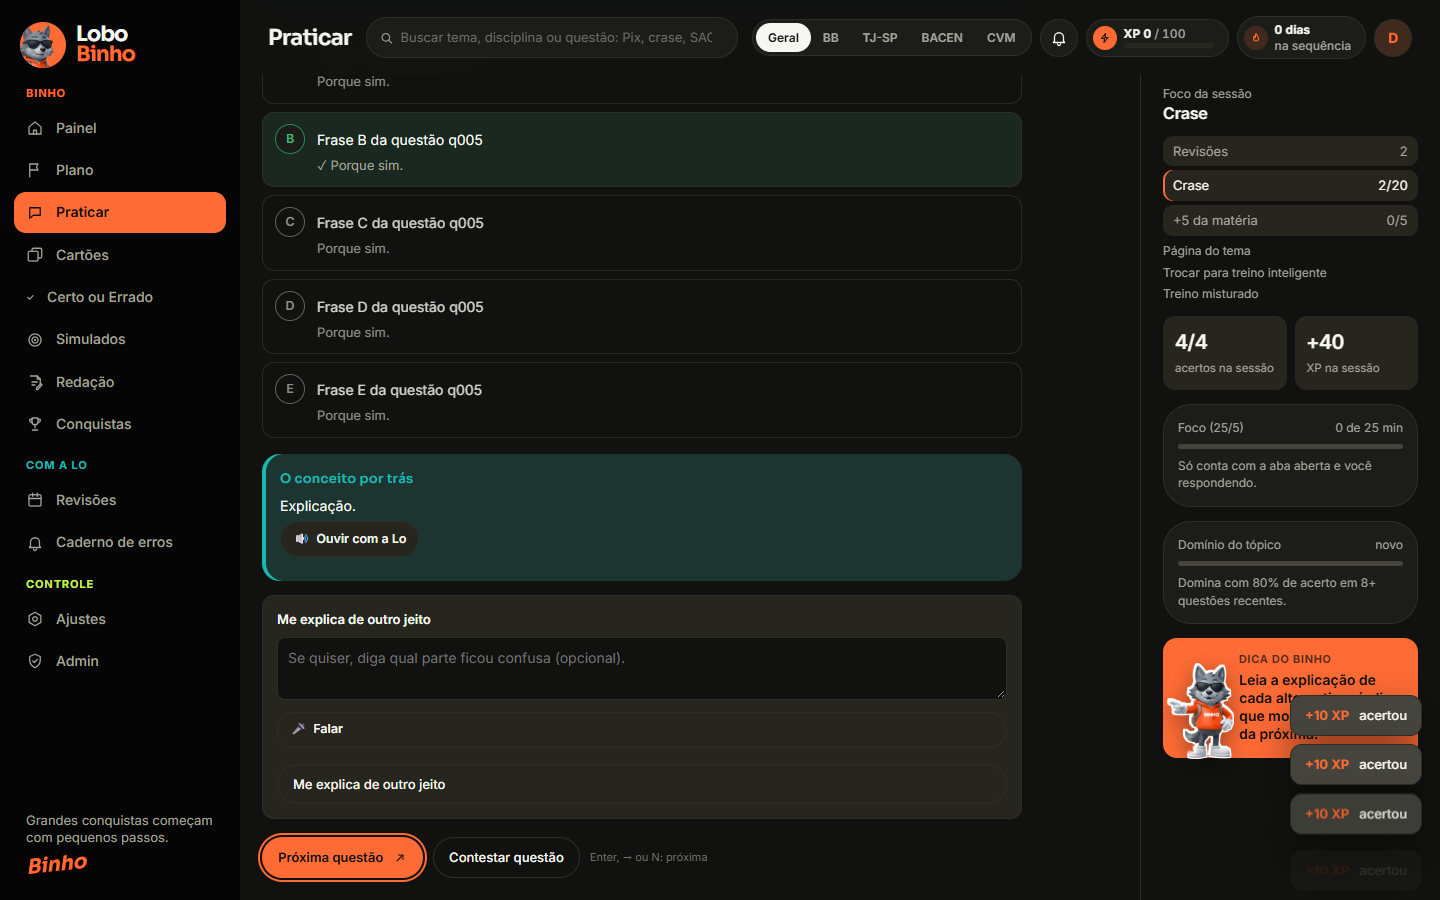
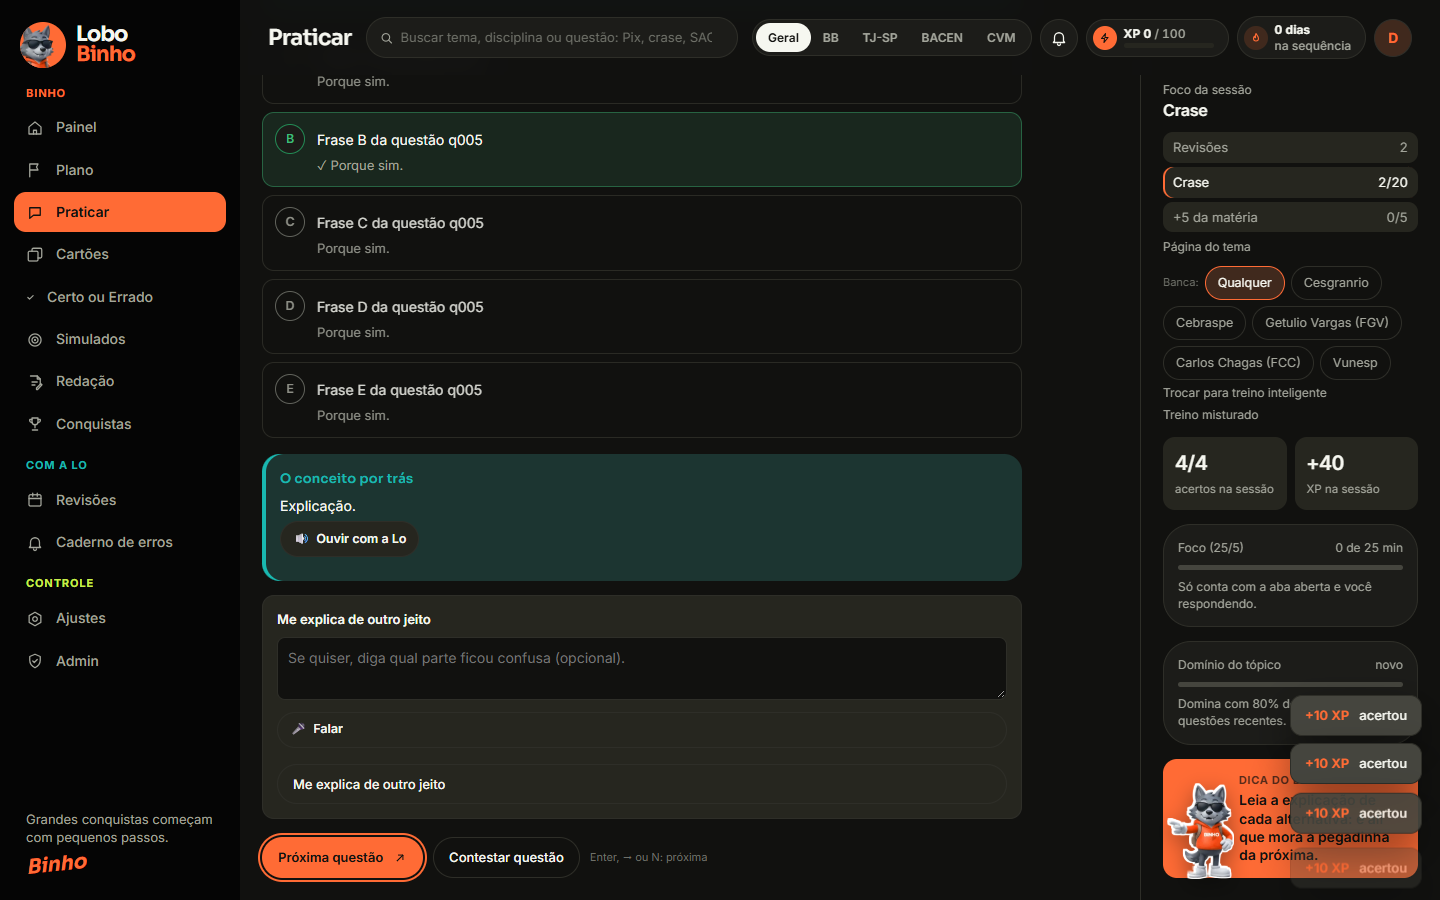
feat(trilha-única): lente nos simulados e questões do tema de qualquer banca com filtro
Na lente, o histórico de simulados é só do concurso (antigos sem concurso = BB). Questões do
tema: qualquer banca por padrão, com filtro de banca na sessão do tema e selo "banca ·
formato" no cabeçalho da questão (banca gravada ou estilo; antigas = Cesgranrio). Diário com
a trilha única, o que falta no banco (arvore --confirmar) e o estado da cadeia F8/F10.

diff --git a/src/estudo.ts b/src/estudo.ts
@@ -3,7 +3,7 @@
 // As regras (XP, SM-2, prioridade, painel) vêm de shared/motor.ts — as mesmas do modo demo.
 // ============================================================
 import { Types } from "mongoose";
-import { Attempt, Question, RatingAluno, ReviewState, Topic, Report, Source, Redacao, ItemCE, RespostaCE } from "./models.js";
+import { Attempt, Question, RatingAluno, ReviewState, Topic, Report, Source, Redacao, ItemCE, RespostaCE, Simulado } from "./models.js";
 import { corrigirCE, recomendarBranco, type GabaritoCE } from "../shared/certoErrado.js";
 import { MISTURA_DIAGNOSTICO, PREFIXO_DIAGNOSTICO, ratingDoDiagnostico } from "../shared/diagnostico.js";
 import { atualizarRatings, dificuldadeExibida, pesoPorProximidade, ratingInicialQuestao, ALVO_ACIMA, RATING_ALUNO_INICIAL } from "../shared/rating.js";
@@ -98,6 +98,13 @@ async function questoesDoConcurso(mapa?: Awaited<ReturnType<typeof mapaTopicos>>
   return (await Question.distinct("_id", { topicId: { $in: [...m.values()].map((t) => t._id) } })) as Types.ObjectId[];
 }
 
+async function simuladosDaLente<T extends { id: string }>(userId: Types.ObjectId, lente: IdConcurso, lista: T[]): Promise<T[]> {
+  const docs = await Simulado.find({ userId }).select("_id concurso").lean();
+  const daLente = new Set(docs.filter((d) => (d.concurso ?? "bb") === lente).map((d) => String(d._id)));
+  const conhecidos = new Set(docs.map((d) => String(d._id)));
+  return lista.filter((s) => daLente.has(s.id) || (!conhecidos.has(s.id) && lente === "bb"));
+}
+
 // ------------------------------------------------------------
 // Certo/Errado (F10): itens aprovados do concurso ativo; recomendação de "em branco" e nota pela banca dele
 // ------------------------------------------------------------
@@ -169,6 +176,8 @@ type QuestaoDoc = {
   origem: string;
   prova?: string | null;
   numeroOriginal?: number | null;
+  banca?: string | null;
+  estiloBanca?: string | null;
   textoBase?: string | null;
   enunciado: string;
   alternativas: { letra: string; texto: string; correta: boolean; explicacao?: string | null; pegadinha?: string | null }[];
@@ -217,6 +226,8 @@ function paraDTO(q: QuestaoDoc, topicos: Map<string, { disciplina: string; assun
     origem: q.origem as "oficial" | "gerada",
     prova: q.prova ?? undefined,
     numeroOriginal: q.numeroOriginal ?? undefined,
+    banca: q.banca ?? q.estiloBanca ?? undefined,
+    formato: "multipla",
     textoBase: q.textoBase ?? undefined,
     enunciado: q.enunciado,
     alternativas: q.alternativas.map((a) => ({ letra: a.letra as Letra, texto: a.texto })),
@@ -335,7 +346,10 @@ export const apiServidor: Omit<Api, "modo"> = {
   tema: paginaTema,
   pedirPrioridadeTema: pedirPrioridade,
   definirTemaDoDia,
-  simulados: () => listarSimulados(ALUNO()),
+  simulados: async () => {
+    const lente = lenteAtiva();
+    return (await listarSimulados(ALUNO())).filter((s) => !lente || s.concurso === lente);
+  },
   concursos: async () => infoConcursos() as ConcursoInfoDTO[],
   prontidao,
   proximoItemCE,
@@ -382,7 +396,10 @@ export const apiServidor: Omit<Api, "modo"> = {
     );
     banco.repetidasNoite = await Geracao.countDocuments({ em: { $gte: inicioDaNoite() }, motivo: { $in: MOTIVOS_REPETICAO } });
     const niveis = (await RatingAluno.find({ userId, ...chaveConcurso() }).select("disciplina rating n").lean()).map((r) => ({ disciplina: r.disciplina as Disciplina, rating: Math.round(r.rating), n: r.n ?? 0 }));
-    return { ...painel, banco, alertasAdmin, redacaoCorrigidaPendente: !!redacaoCorrigidaPendente, niveis };
+    // lente: histórico só dos simulados daquele concurso (os antigos, sem concurso gravado, são do BB)
+    const lente = lenteAtiva();
+    const simulados = lente ? await simuladosDaLente(userId, lente, painel.simulados) : painel.simulados;
+    return { ...painel, simulados, banco, alertasAdmin, redacaoCorrigidaPendente: !!redacaoCorrigidaPendente, niveis };
   },
 
   async proxima(f) {
@@ -396,7 +413,7 @@ export const apiServidor: Omit<Api, "modo"> = {
 
     // praticar por TEMA: só o subtópico, novas primeiro ("crase só traz crase")
     if (f.subtopico) {
-      const r = await proximaDoTema(f.subtopico, f.excluir);
+      const r = await proximaDoTema(f.subtopico, f.excluir, f.banca);
       if (!r) return { questao: null, modo: "treino", aviso: "Este tema ainda não tem questões aprovadas. Pedi prioridade ao noturno." };
       const q = await Question.findById(r.id).lean<QuestaoDoc>();
       return {

diff --git a/web/src/telas/Praticar.tsx b/web/src/telas/Praticar.tsx
@@ -15,6 +15,7 @@ import { ISeta } from "../componentes/Icones";
 import { pct } from "../util";
 import { Pose } from "../componentes/Pose";
 import { PergunteAoBinho } from "../componentes/PergunteAoBinho";
+import { BANCAS } from "../../../shared/concursos";
 
 type Etapa = "revisoes" | "tema" | "mistas" | "fim";
 type Placar = Record<Exclude<Etapa, "fim">, { n: number; a: number }>;
@@ -108,7 +109,7 @@ export function Praticar() {
     }
     if (etapa.current === "tema") {
       if (placarRef.current.tema.n < s.novas) {
-        const r = await api.proxima({ subtopico: s.subtopico, excluir });
+        const r = await api.proxima({ subtopico: s.subtopico, excluir, ...(s.banca ? { banca: s.banca } : {}) });
         if (r.questao && !r.repetida) return r;
       }
       etapa.current = "mistas";
@@ -558,6 +559,17 @@ export function Praticar() {
             </ol>
           )}
           {filtro.sessao && <button className="link" onClick={() => ir("tema", { subtopico: filtro.sessao!.subtopico })}>Página do tema</button>}
+          {filtro.sessao && (
+            // trilha única: questões do tema de qualquer banca; o aluno pode ficar numa banca só
+            <div className="filtro-banca" role="group" aria-label="Banca das questões do tema" data-testid="filtro-banca">
+              <span className="atalho">Banca:</span>
+              {[["", "Qualquer"], ...Object.values(BANCAS).map((b) => [b.id, b.nome.replace(/^Fundação /, "")])].map(([id, nome]) => (
+                <button key={id || "todas"} className="chip" aria-pressed={(filtro.sessao!.banca ?? "") === id} onClick={() => ir("praticar", { sessao: { ...filtro.sessao!, banca: id || undefined } })}>
+                  {nome}
+                </button>
+              ))}
+            </div>
+          )}
           {(filtro.topicoId || filtro.disciplina || filtro.revisao || filtro.misto || filtro.sessao) && (
             <button className="link" onClick={() => ir("praticar")}>Trocar para treino inteligente</button>
           )}

diff --git a/src/temas.ts b/src/temas.ts
@@ -10,6 +10,7 @@ import { Types } from "mongoose";
 import { Attempt, Config, Question, ReviewState, Topic } from "./models.js";
 import { ALUNO, chaveConcurso, lenteAtiva } from "./estudo.js";
 import { disciplinaDoTema } from "../shared/trilhaUnica.js";
+import { BANCAS } from "../shared/concursos.js";
 import { prontidaoDeTodos } from "../shared/prontidao.js";
 import type { ProntidaoDTO } from "../shared/prontidao.js";
 import { fichaAprovada } from "./fichas.js";
@@ -222,10 +223,15 @@ export async function paginaTema(subtopico: string): Promise<TemaDTO | null> {
 
 // próxima questão de um TEMA: só daquele subtópico, NOVAS primeiro (as não respondidas), mais antigas
 // do banco primeiro para manter a ordem estável; se acabaram as novas, repete com aviso.
-export async function proximaDoTema(subtopico: string, excluir: string[] = []) {
+// trilha única: questões do tema de QUALQUER banca; o aluno pode ficar numa banca só (oficial: banca da prova;
+// gerada: estilo da banca; as antigas, sem banca gravada, são Cesgranrio)
+export async function proximaDoTema(subtopico: string, excluir: string[] = [], banca?: string) {
   const userId = ALUNO();
   const topicos = await topicosAtivos();
-  const base = { subtopico, status: "aprovada" as const, topicId: { $in: topicos.map((t) => t._id) } };
+  const daBanca: Record<string, unknown> = banca && banca in BANCAS
+    ? { $or: [{ banca }, { banca: { $exists: false }, estiloBanca: banca }, ...(banca === "cesgranrio" ? [{ banca: { $exists: false }, estiloBanca: { $exists: false } }] : [])] }
+    : {};
+  const base: Record<string, unknown> = { subtopico, status: "aprovada", topicId: { $in: topicos.map((t) => t._id) }, ...daBanca };
   const doTema = (await Question.find(base).select("_id").lean()).map((q) => q._id);
   const respondidas = await Attempt.distinct("questionId", { userId, questionId: { $in: doTema } });
   const fora = [...respondidas, ...excluir.filter((x) => Types.ObjectId.isValid(x)).map((x) => new Types.ObjectId(x))];

diff --git a/web/src/api/demo.ts b/web/src/api/demo.ts
@@ -182,6 +182,8 @@ function paraDTO(q: QuestaoDemo): QuestaoDTO {
     disciplina: q.disciplina,
     assunto: q.assunto,
     origem: "gerada",
+    banca: "cesgranrio",
+    formato: "multipla",
     textoBase: q.textoBase,
     enunciado: q.enunciado,
     alternativas: q.alternativas.map(({ letra, texto }) => ({ letra, texto })),
@@ -376,7 +378,7 @@ export const apiDemo: Api = {
         return q ? [{ disciplina: q.disciplina, subtopico: subDe(q), acertou: t.acertou, branco: t.resposta === null, tempoSeg: t.tempoSeg ?? 0 }] : [];
       });
       return resumirSimulado({ id, data: ts[0].data, concurso: "bb", banca: "cesgranrio", diagnostico: ehDiagnostico(id) }, itens);
-    }));
+    }).filter((s) => { const lente = lenteDemo(); return !lente || s.concurso === lente; })); // lente: só os do concurso
   },
 
   painel: () => {
@@ -404,7 +406,8 @@ export const apiDemo: Api = {
 
     // praticar por tema: só o subtópico, novas primeiro (igual ao servidor)
     if (f.subtopico) {
-      const doTema = ativas.filter((q) => subDe(q) === f.subtopico && !(f.excluir ?? []).includes(q.id));
+      // as questões de exemplo são todas no estilo Cesgranrio
+      const doTema = ativas.filter((q) => subDe(q) === f.subtopico && !(f.excluir ?? []).includes(q.id) && (!f.banca || f.banca === "cesgranrio"));
       const vistas = new Set(e.tentativas.map((t) => t.questaoId));
       const nova = doTema.find((q) => !vistas.has(q.id));
       const q = nova ?? doTema[0];

diff --git a/shared/tipos.ts b/shared/tipos.ts
@@ -165,6 +165,9 @@ export interface QuestaoDTO {
   origem: "oficial" | "gerada";
   prova?: string;
   numeroOriginal?: number;
+  /** banca da questão (oficial: a da prova; gerada: o estilo) e o formato (trilha única: questões de qualquer banca) */
+  banca?: string;
+  formato?: "multipla" | "certo_errado";
   textoBase?: string;
   enunciado: string;
   alternativas: { letra: Letra; texto: string }[];
@@ -660,7 +663,8 @@ export interface Api {
   painel(): Promise<PainelDTO>;
   // misto: intercala disciplinas no peso da prova; anterior = disciplina da última questão
   // subtopico: só aquele tema, novas primeiro ("crase só traz crase"); excluir = já vistas nesta sessão
-  proxima(f: { topicoId?: string; disciplina?: Disciplina; questaoId?: string; revisao?: boolean; misto?: boolean; anterior?: Disciplina; subtopico?: string; excluir?: string[] }): Promise<{
+  // banca: questões do tema de uma banca só (trilha única: o padrão é qualquer banca)
+  proxima(f: { topicoId?: string; disciplina?: Disciplina; questaoId?: string; revisao?: boolean; misto?: boolean; anterior?: Disciplina; subtopico?: string; banca?: string; excluir?: string[] }): Promise<{
     questao: QuestaoDTO | null;
     modo: "treino" | "revisao";
     aviso?: string;

diff --git a/web/src/componentes/Questao.tsx b/web/src/componentes/Questao.tsx
@@ -1,6 +1,7 @@
 // Questão: enunciado + alternativas; depois de corrigida, mostra a explicação de cada alternativa
 import type { AlternativaCorrigida, CorrecaoDTO, Letra, QuestaoDTO } from "../../../shared/tipos";
 import { NOME_DISCIPLINA } from "../../../shared/tipos";
+import { BANCAS } from "../../../shared/concursos";
 import { Figura } from "./Figura";
 import { Ouvir } from "./Ouvir";
 
@@ -22,6 +23,11 @@ export function Cabecalho({ q, traicoeira }: { q: QuestaoDTO; traicoeira?: boole
             {[1, 2, 3, 4, 5].map((i) => (<i key={i} className={i <= q.dificuldade ? "on" : ""} />))}
           </span>
         </span>
+        {q.banca && (
+          <span className="selo" data-testid="selo-banca">
+            {(BANCAS as Record<string, { nome: string }>)[q.banca]?.nome ?? q.banca} · {q.formato === "certo_errado" ? "Certo/Errado" : "múltipla escolha"}
+          </span>
+        )}
         {traicoeira && <span className="selo alerta">Traiçoeira: essa engana muita gente</span>}
         {q.notaNorma && <span className="selo atualizada">Norma atualizada</span>}
       </div>

diff --git a/web/src/estilos.css b/web/src/estilos.css
@@ -1331,6 +1331,8 @@ h1, h2, h3, .marca, .titulo-tela { font-family: var(--fonte-titulo); }
 .lista-prontidao .num { min-width: 38px; text-align: right; }
 .lista-fracos { margin: 4px 0 0; padding-left: 18px; display: grid; gap: 4px; }
 .lista-fracos .num { color: var(--suave); }
+/* sessão do tema: filtro de banca (trilha única: questões de qualquer banca) */
+.filtro-banca { display: flex; flex-wrap: wrap; align-items: center; gap: 6px; margin-top: 10px; }
 /* aba de concurso ainda sem matérias (TJ-SP e CVM até o material chegar) */
 .aviso-concurso-vazio { margin: 12px 0 0; padding: 10px 14px; border-radius: 12px; max-width: 68ch; background: var(--binho-fundo); box-shadow: inset 4px 0 0 var(--binho); }
 .aviso-concurso-vazio b { color: var(--binho-texto); }

diff --git a/web/src/api/http.ts b/web/src/api/http.ts
@@ -68,6 +68,7 @@ export const apiHttp: Api = {
     if (f.misto) p.set("misto", "1");
     if (f.anterior) p.set("anterior", f.anterior);
     if (f.subtopico) p.set("subtopico", f.subtopico);
+    if (f.banca) p.set("banca", f.banca);
     if (f.excluir?.length) p.set("excluir", f.excluir.slice(-60).join(","));
     return req(`/proxima?${p}`);
   },

diff --git a/src/server.ts b/src/server.ts
@@ -109,6 +109,7 @@ app.get(
         misto: req.query.misto === "1",
         anterior: ehDisciplina(anterior) ? anterior : undefined,
         subtopico: texto(req.query.subtopico),
+        banca: texto(req.query.banca),
         excluir: texto(req.query.excluir)?.split(",").filter((x) => Types.ObjectId.isValid(x)).slice(0, 60),
       })
     );

diff --git a/web/src/estado.tsx b/web/src/estado.tsx
@@ -19,6 +19,7 @@ export interface SessaoTema {
   mistas: number;
   revisoes: boolean;
   trilha: boolean; // veio da trilha: o resultado diz o que acontece amanhã
+  banca?: string; // trilha única: questões do tema de uma banca só (vazio = qualquer banca)
 }
 export interface FiltroPratica {
   topicoId?: string;

diff --git a/docs/DIARIO.md b/docs/DIARIO.md
@@ -296,6 +296,23 @@ O histórico completo (16 a 20/10/2026, viagem, adendos e PROMPT-FECHAMENTO F0 a
   - A aba sem matérias mostra "as matérias ainda estão chegando".
   - Os **72 arquivos (um por tema)** do dono entram quando ele avisar (pasta `72 FONTES/`).
 
+- **Trilha única + abas como lentes (decisão de arquitetura do dono, 25/10):**
+  - Catálogo único de temas: 74 = 63 + 8 do TJ-SP (ids do dono) + 3 da CVM (ids `cvm_` provisórios). Os temas comuns ganharam `tjsp`/`cvm` pelas matérias da referência.
+  - Ordem por código (`bb -- trilha-ordenar`): nº de concursos (comuns primeiro), peso no edital × (1 + incidência), pré-requisitos. `data/trilha.json` passou de 51 para 74 temas; nenhum saiu.
+  - Avanço por tema, uma vez só, sem depender da ordem. O início da trilha grava o subtópico. Migração: backup validado, 0 registros antigos, 0 → 0.
+  - "Prontidão para X" (`shared/prontidao.ts`). Testes do dono: o domínio de Crase sobe todos os concursos que a cobram; a aba do TJ-SP só mostra matérias do TJ-SP.
+  - Aba "Geral" (padrão) = visão do todo; BB/TJ-SP/BACEN/CVM = lentes.
+    - Na Geral, o simulado pede o concurso e o C/E usa a Cebraspe.
+    - Histórico de simulados por concurso na lente.
+    - Questões do tema de qualquer banca, com filtro de banca e selo "banca · formato".
+  - `cvm.json` corrigido: tirei Bancários e Dir. Administrativo, que eu tinha posto e que não estão no Módulo I.
+  - **Falta no banco (precisa de embedding, depois da cadeia):** `bb -- arvore --confirmar` cria os 11 tópicos novos e liga os concursos. A simulação mostrou 36 tópicos ganhando tjsp/cvm, nada sai. Fazer com backup antes.
+- **Cadeia F8/F10 (em andamento):**
+  - BB Tecnologia 2023 ingerida.
+  - 2021 falhou (JSON inválido numa janela, nada salvo) e BNDES 2024 falhou (timeout). Repetir.
+  - Causa de fundo: a extração usa o auditor do `.env`, que ainda aponta para o Super (fora pela Decisão 0, dá 404) e cai sempre na reserva Ultra. Trocar no `.env` é decisão do dono.
+- **TJ-SP Vunesp:** o acervo só tem o caderno de 2023, sem o gabarito. O leitor de gabarito Vunesp fica para quando o gabarito chegar (o formato de pares/grade já é lido pelo `lerGabaritoOficial`).
+
 RETOMAR AQUI — ordem do dono (25/10/2026), nesta sequência:
 1. FEITO: visual da madrugada testado, com prints, commitado (`14834cb`).
 2. AGORA: PROMPT-LOBO-BB-BACEN de F8 até F14. Toda tela nova já nasce no estilo novo (cores, barra lateral, cartões do mockup).
